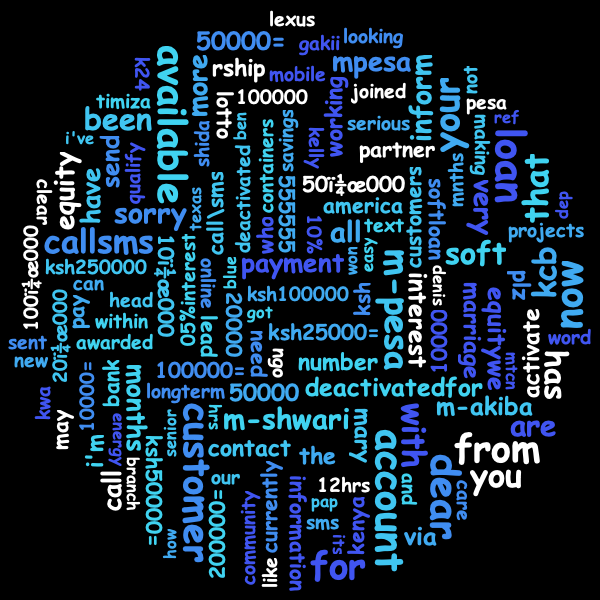
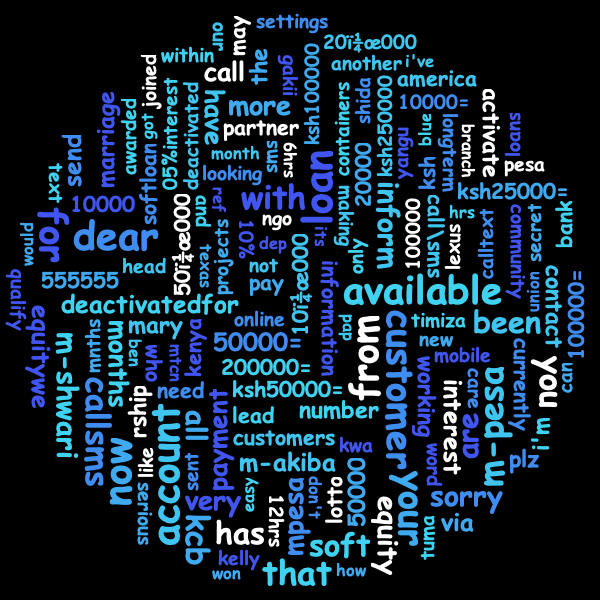
adding VisualizingText class

diff --git a/src/dataHandling/JPanaWordCloud.java b/src/dataHandling/JPanaWordCloud.java
@@ -1,0 +1,67 @@
+package dataHandling;
+
+import com.kennycason.kumo.CollisionMode;
+import com.kennycason.kumo.WordCloud;
+import com.kennycason.kumo.WordFrequency;
+import com.kennycason.kumo.bg.CircleBackground;
+import com.kennycason.kumo.bg.PixelBoundryBackground;
+import com.kennycason.kumo.font.scale.SqrtFontScalar;
+import com.kennycason.kumo.nlp.FrequencyAnalyzer;
+import com.kennycason.kumo.palette.ColorPalette;
+
+import javax.swing.*;
+import java.awt.*;
+import java.io.IOException;
+import java.io.InputStream;
+import java.util.List;
+
+public class JPanaWordCloud extends JPanel {
+	public final WordCloud wordCloud;
+
+	public JPanaWordCloud() throws IOException {
+		wordCloud = generateWordCloud();
+		final JLabel wordCloudLabel = new JLabel(new ImageIcon(wordCloud.getBufferedImage()));
+		add(wordCloudLabel);
+		repaint();
+	}
+
+	private static WordCloud generateWordCloud() throws IOException {
+		final FrequencyAnalyzer fA = new FrequencyAnalyzer();
+		// selecting the number of most frequency words to be visualized.
+		fA.setWordFrequenciesToReturn(200);
+
+		// load the text to a list.
+		List<WordFrequency> wordFrequencies = fA
+				.load(getInputStream("wordcloud.txt"));
+
+		// specify height & width of the output.png.
+		final Dimension di = new Dimension(600, 600);
+
+		// WordCloud(Dimension)
+		final WordCloud wordCloud = new WordCloud(di, CollisionMode.PIXEL_PERFECT);
+		wordCloud.setPadding(2);
+
+		// set CircleBackground with the radius= 300.
+		wordCloud.setBackground(new PixelBoundryBackground(getInputStream("whale_small.png")));
+		wordCloud.setColorPalette(new ColorPalette(new Color(0x4055F1), new Color(0x408DF1), new Color(0x40AAF1),
+				new Color(0x40C5F1), new Color(0x40D3F1), new Color(0xFFFFFF)));
+		wordCloud.setFontScalar(new SqrtFontScalar(10, 40));
+
+		// sort the most frequent words.
+		wordCloud.build(wordFrequencies);
+		return wordCloud;
+	}
+
+	private static InputStream getInputStream(final String path) {
+		return Thread.currentThread().getContextClassLoader().getResourceAsStream(path);
+	}
+	public static void main(String[] args) throws IOException {
+		JPanaWordCloud jWP = new JPanaWordCloud();
+		final JFrame frame = new JFrame("JPanel WordCloud");
+		frame.setDefaultCloseOperation(JFrame.EXIT_ON_CLOSE);
+		frame.add(jWP);
+		frame.pack();
+		frame.setLocationRelativeTo(null);
+		frame.setVisible(true);
+	}
+}

diff --git a/src/dataHandling/VisualizingText.java b/src/dataHandling/VisualizingText.java
@@ -13,13 +13,16 @@ import com.kennycason.kumo.font.scale.SqrtFontScalar;
 import com.kennycason.kumo.nlp.FrequencyAnalyzer;
 import com.kennycason.kumo.palette.ColorPalette;
 
-public class VisualizingText {
+import javax.swing.*;
+
+public class VisualizingText extends JPanel {
 	/*
 	 * generate a circular Word Cloud. A tag cloud (word cloud or weighted list in
 	 * visual design) is a visual representation of text data, typically used to
 	 * visualize free form text. Tags are usually single words, and the importance
 	 * of each tag is shown with font size or color
 	 */
+
 
 	public static void main(String[] args) throws IOException {
 		final FrequencyAnalyzer fA = new FrequencyAnalyzer();
